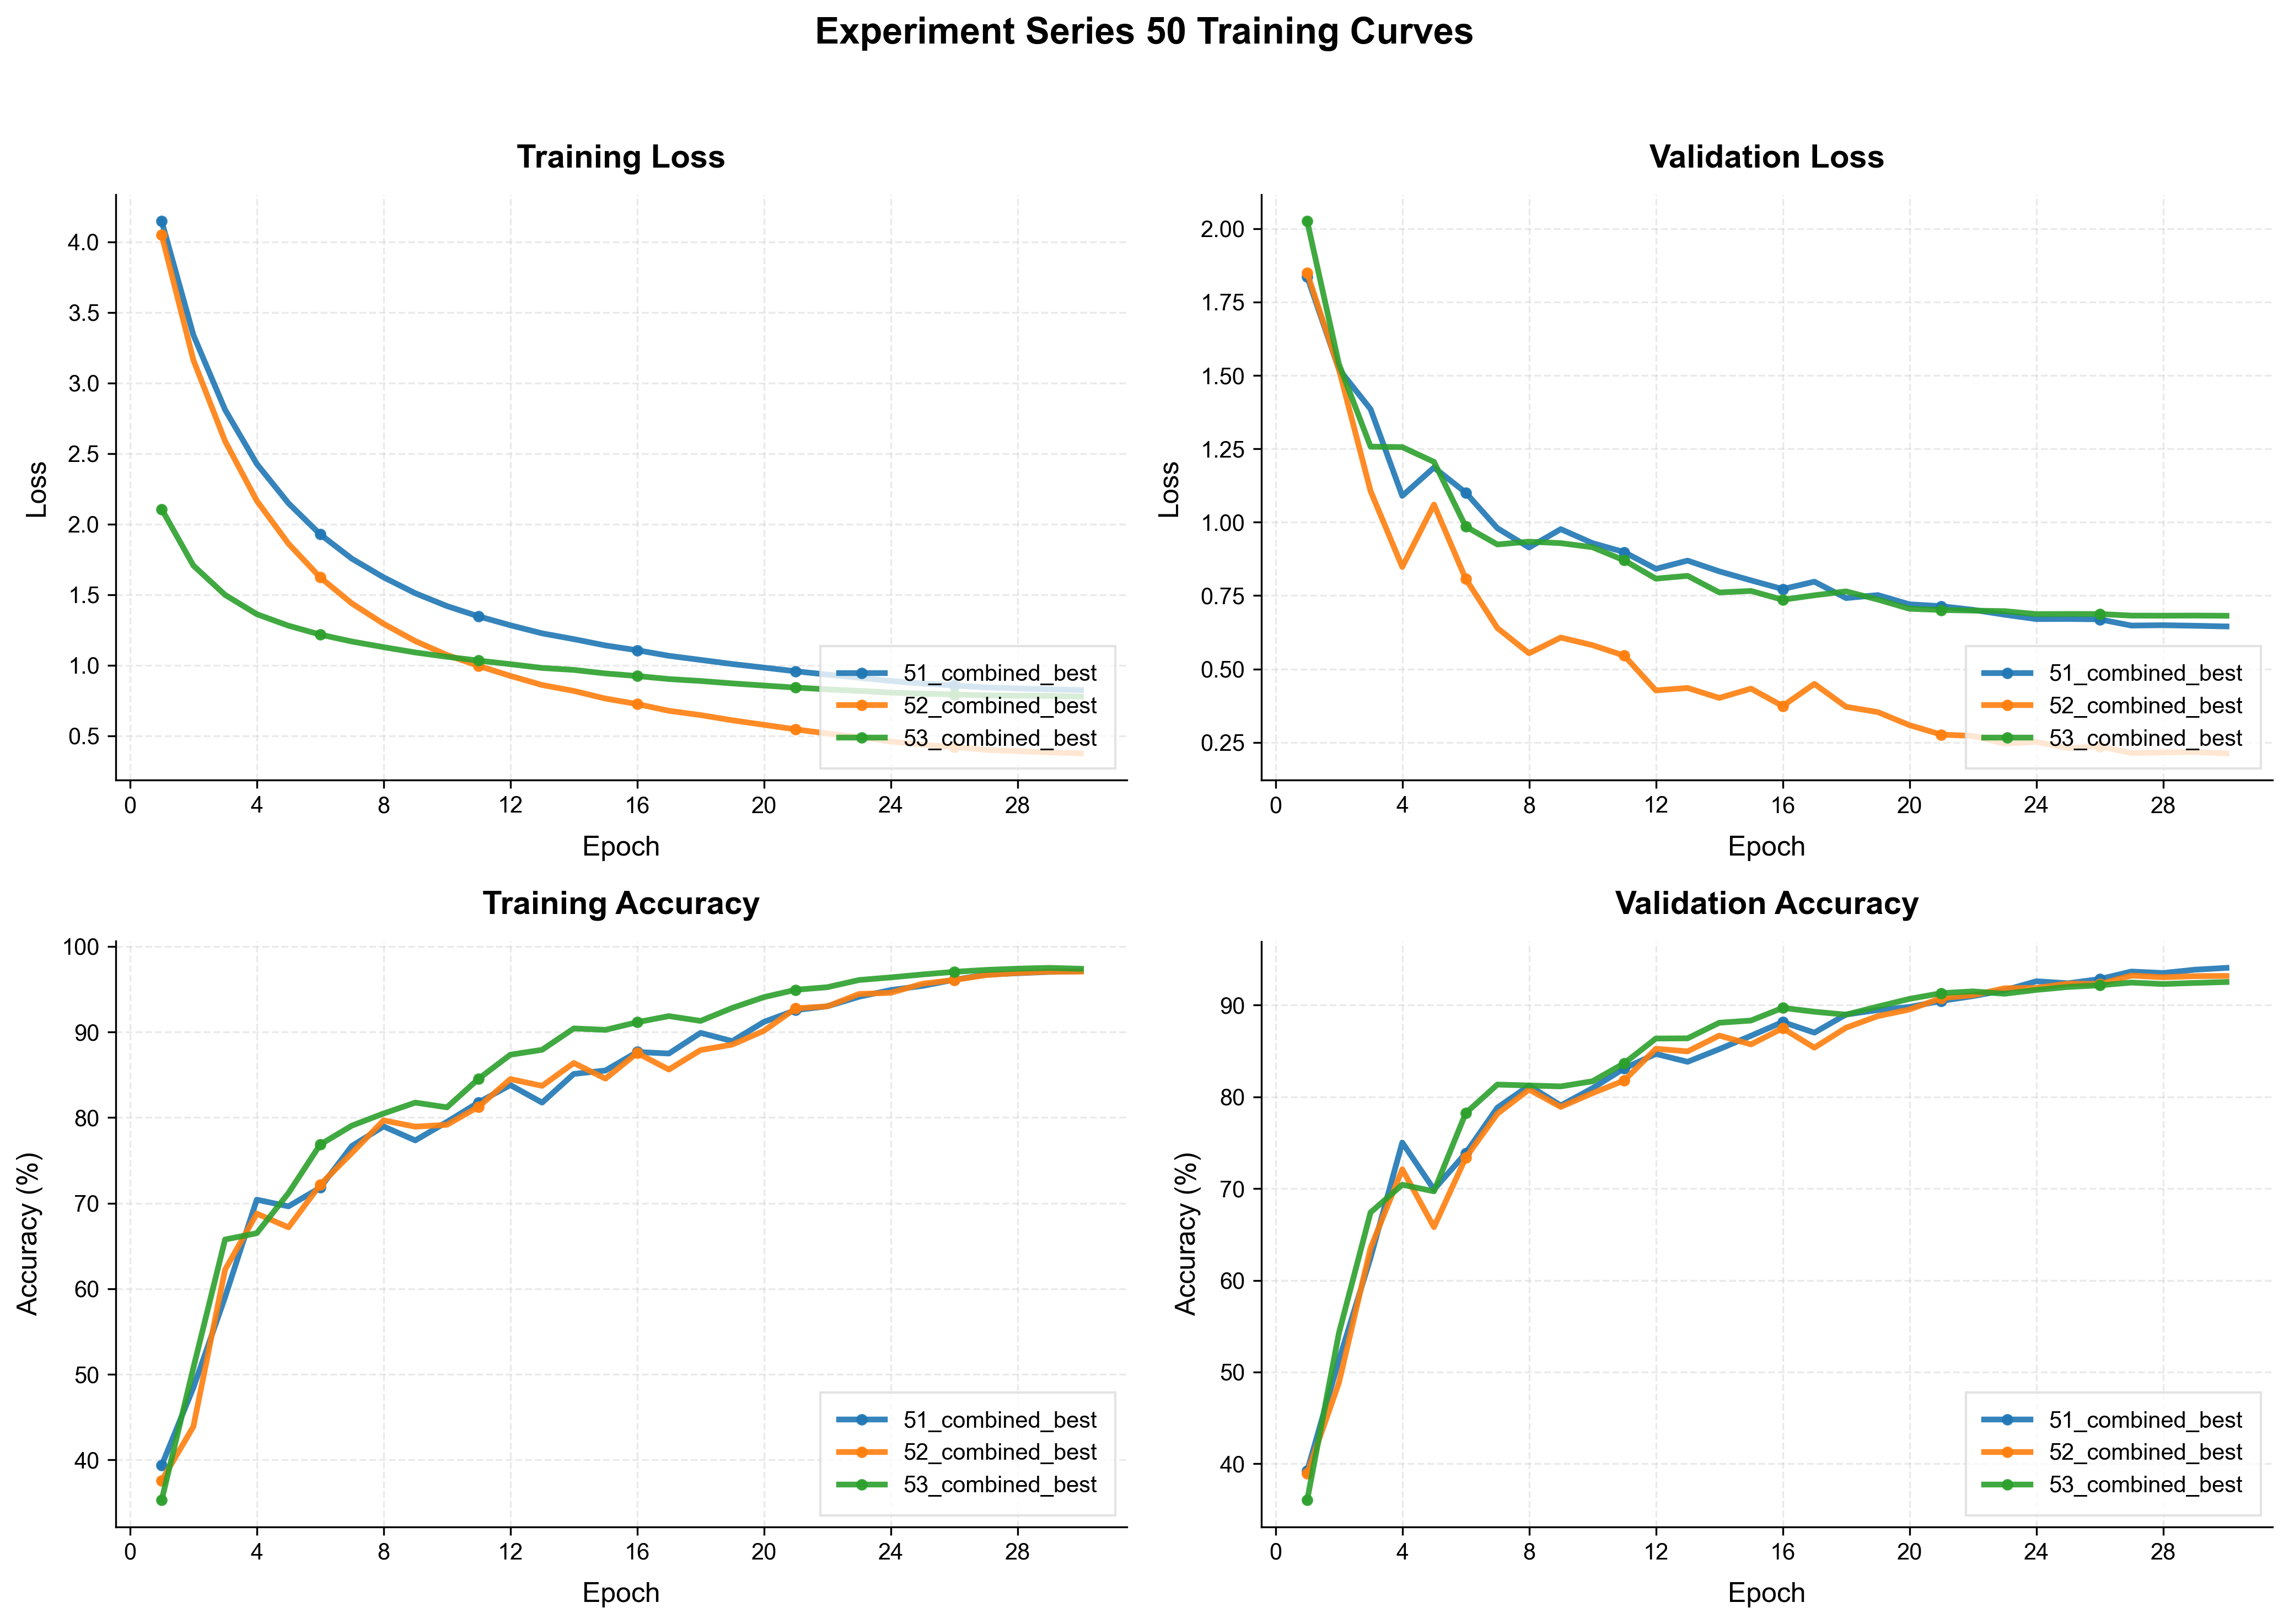
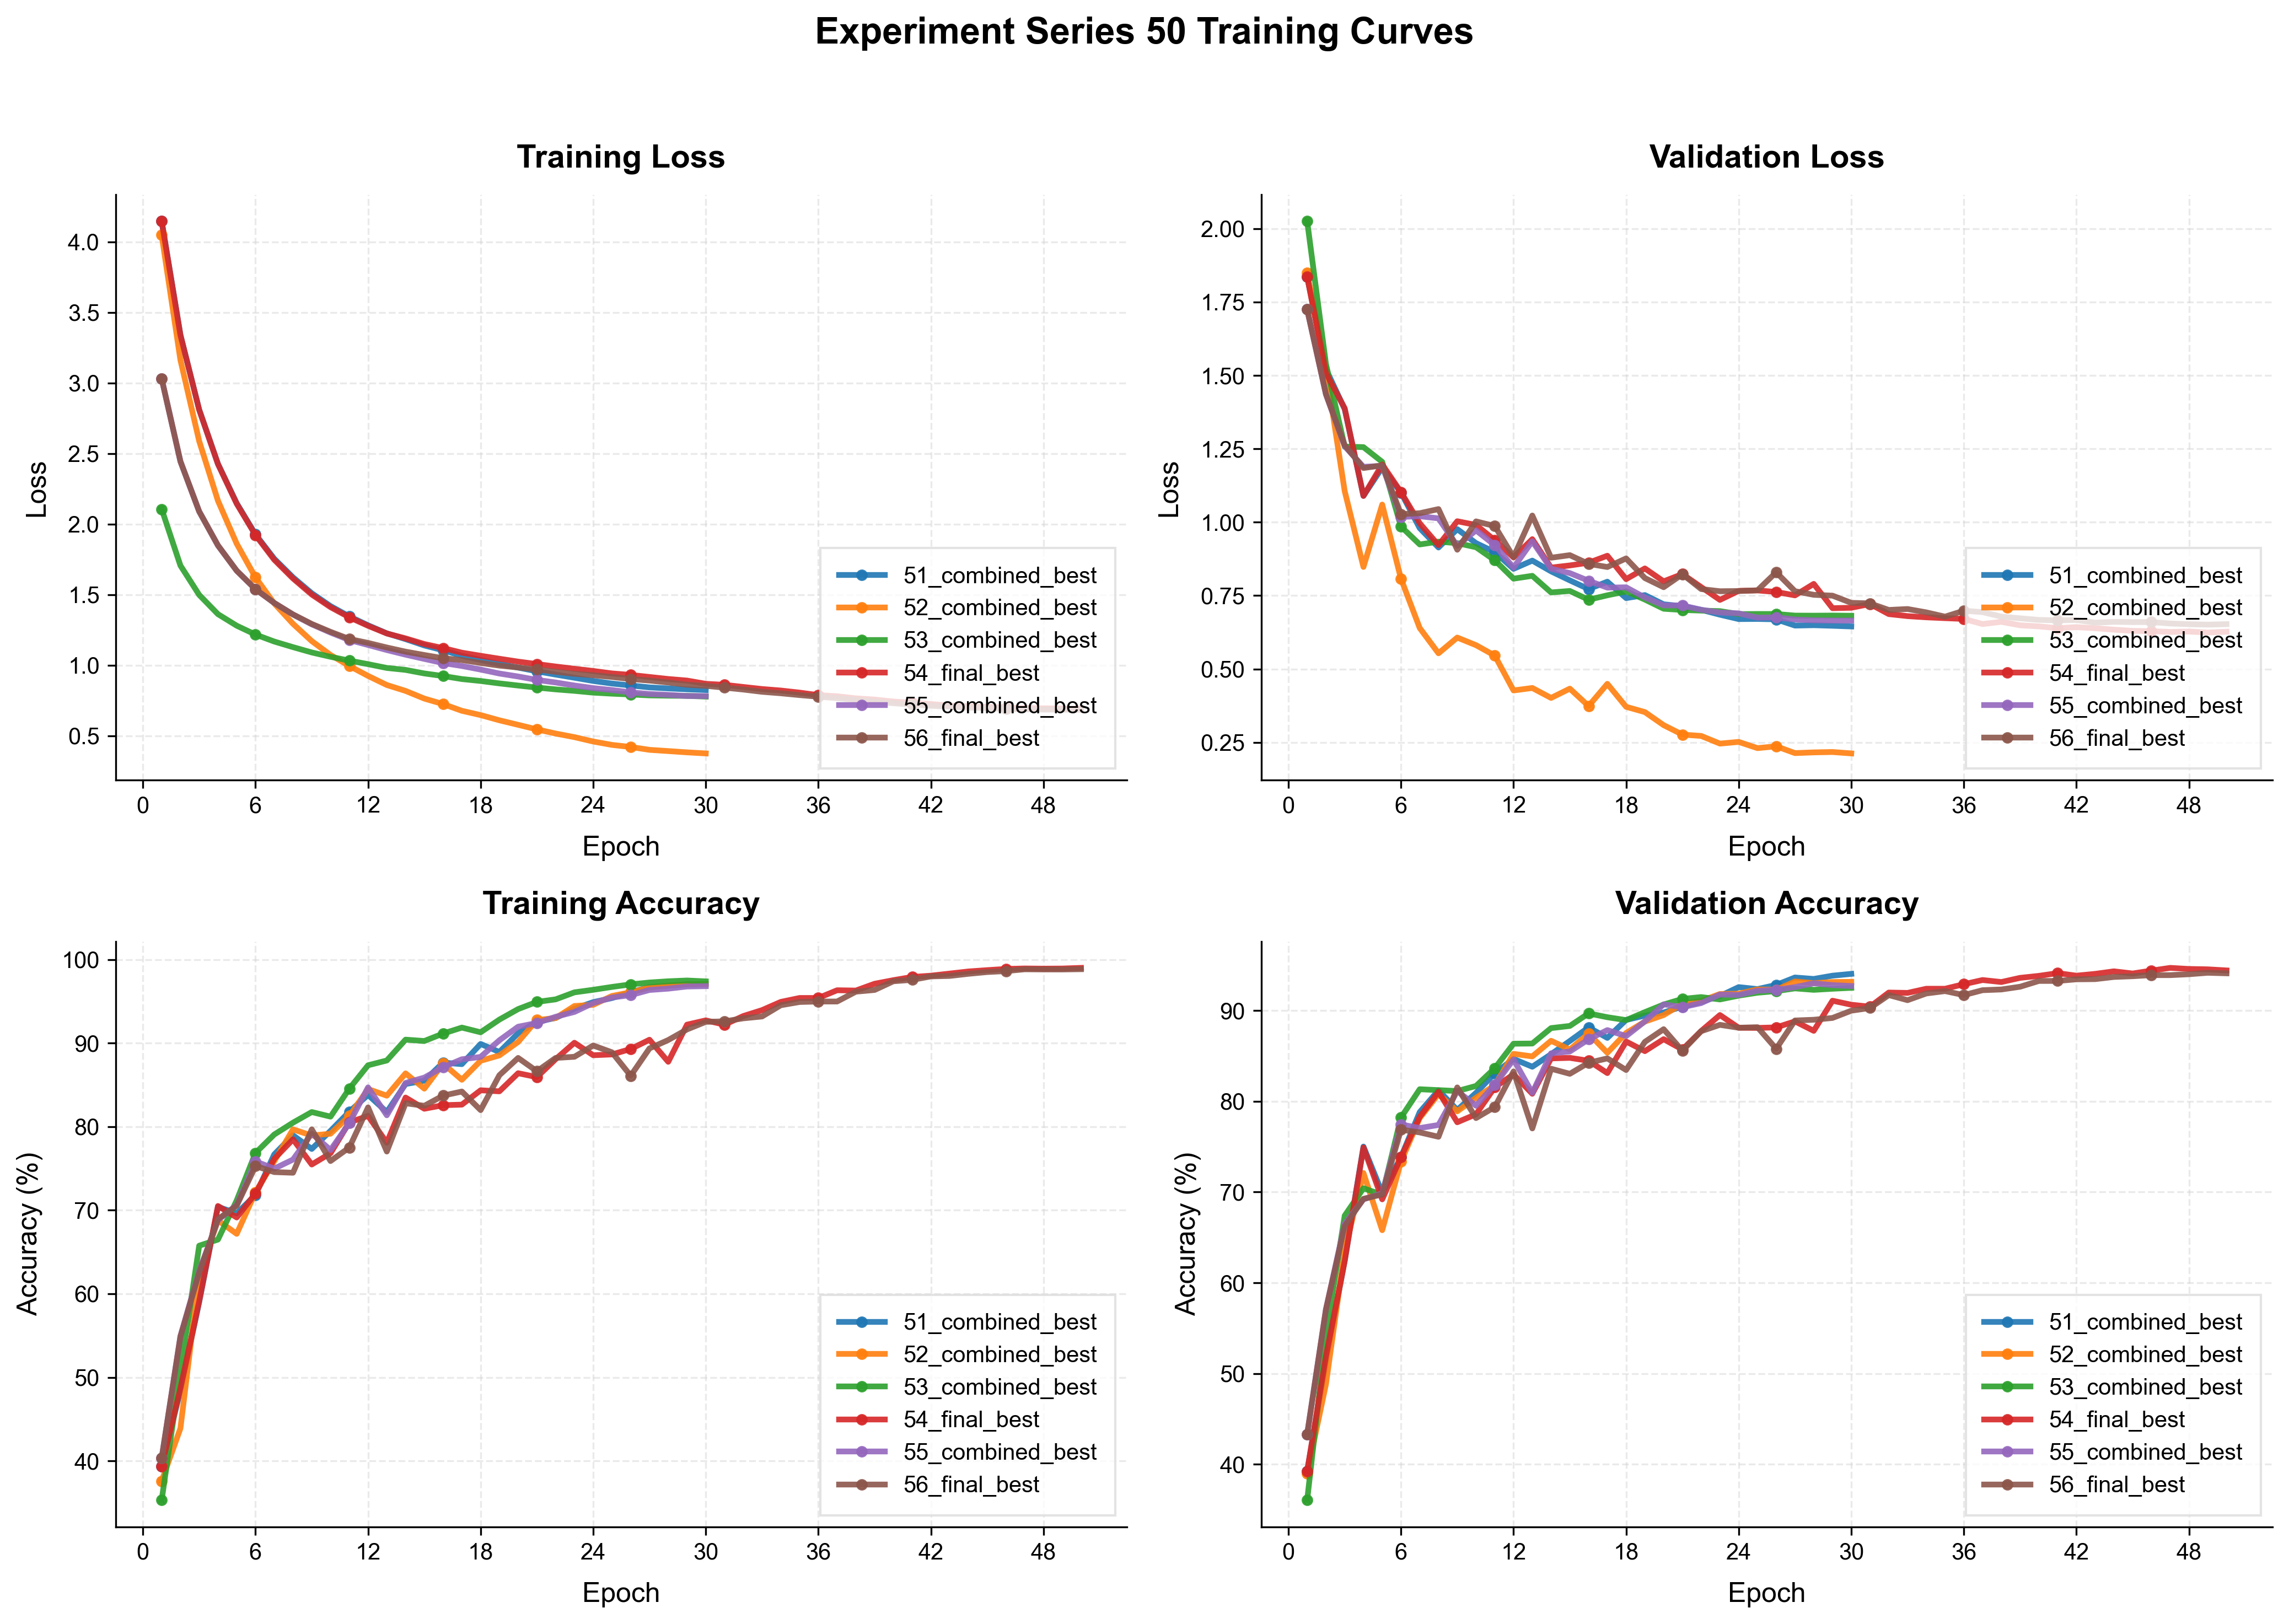
Add files via upload

diff --git a/PJ2/cifar10_classification/reports/all_experiments_summary.md b/PJ2/cifar10_classification/reports/all_experiments_summary.md
@@ -3,8 +3,10 @@
 | ID | 模型 | 学习率 | 激活 | 优化器 | 最佳验证准确率 | 最终测试准确率 | 参数量 | 说明 |
 |---|---|---|---|---|---|---|---|---|
 | 54 | original_residual_bn | 1.0 | gelu | adadelta | 94.72% | 94.45% | 45,445,258 | BN+残差 | 卷积128 | 标签平滑0.1 | Adadelta |
+| 56 | original_residual_bn | 1.0 | gelu | adadelta | 94.18% | 94.01% | 12,753,994 | BN+残差 | 全连接1024 | 标签平滑0.1 | Adadelta |
 | 51 | original_residual_bn | 1.0 | gelu | adadelta | 94.06% | 93.51% | 45,445,258 | BN+残差 | 卷积128 | 标签平滑0.1 | Adadelta |
 | 52 | original_residual_bn | 1.0 | gelu | adadelta | 93.22% | 93.23% | 45,445,258 | BN+残差 | 卷积128 | Adadelta |
+| 55 | original_residual_bn | 1.0 | gelu | adadelta | 93.02% | 92.89% | 12,753,994 | BN+残差 | 全连接1024 | 标签平滑0.1 | Adadelta |
 | 53 | original_residual_bn | 1.0 | gelu | adadelta | 92.52% | 92.47% | 45,445,258 | BN+残差 | 卷积128 | 权重衰减1e-5 | Adadelta |
 | 44 | original_residual_bn | 1.0 | relu | adadelta | 92.38% | 92.16% | 11,699,274 | 优化器Adadelta |
 | 41 | original_residual_bn | 0.001 | relu | adamw | 91.76% | 91.91% | 11,699,274 | 优化器AdamW |